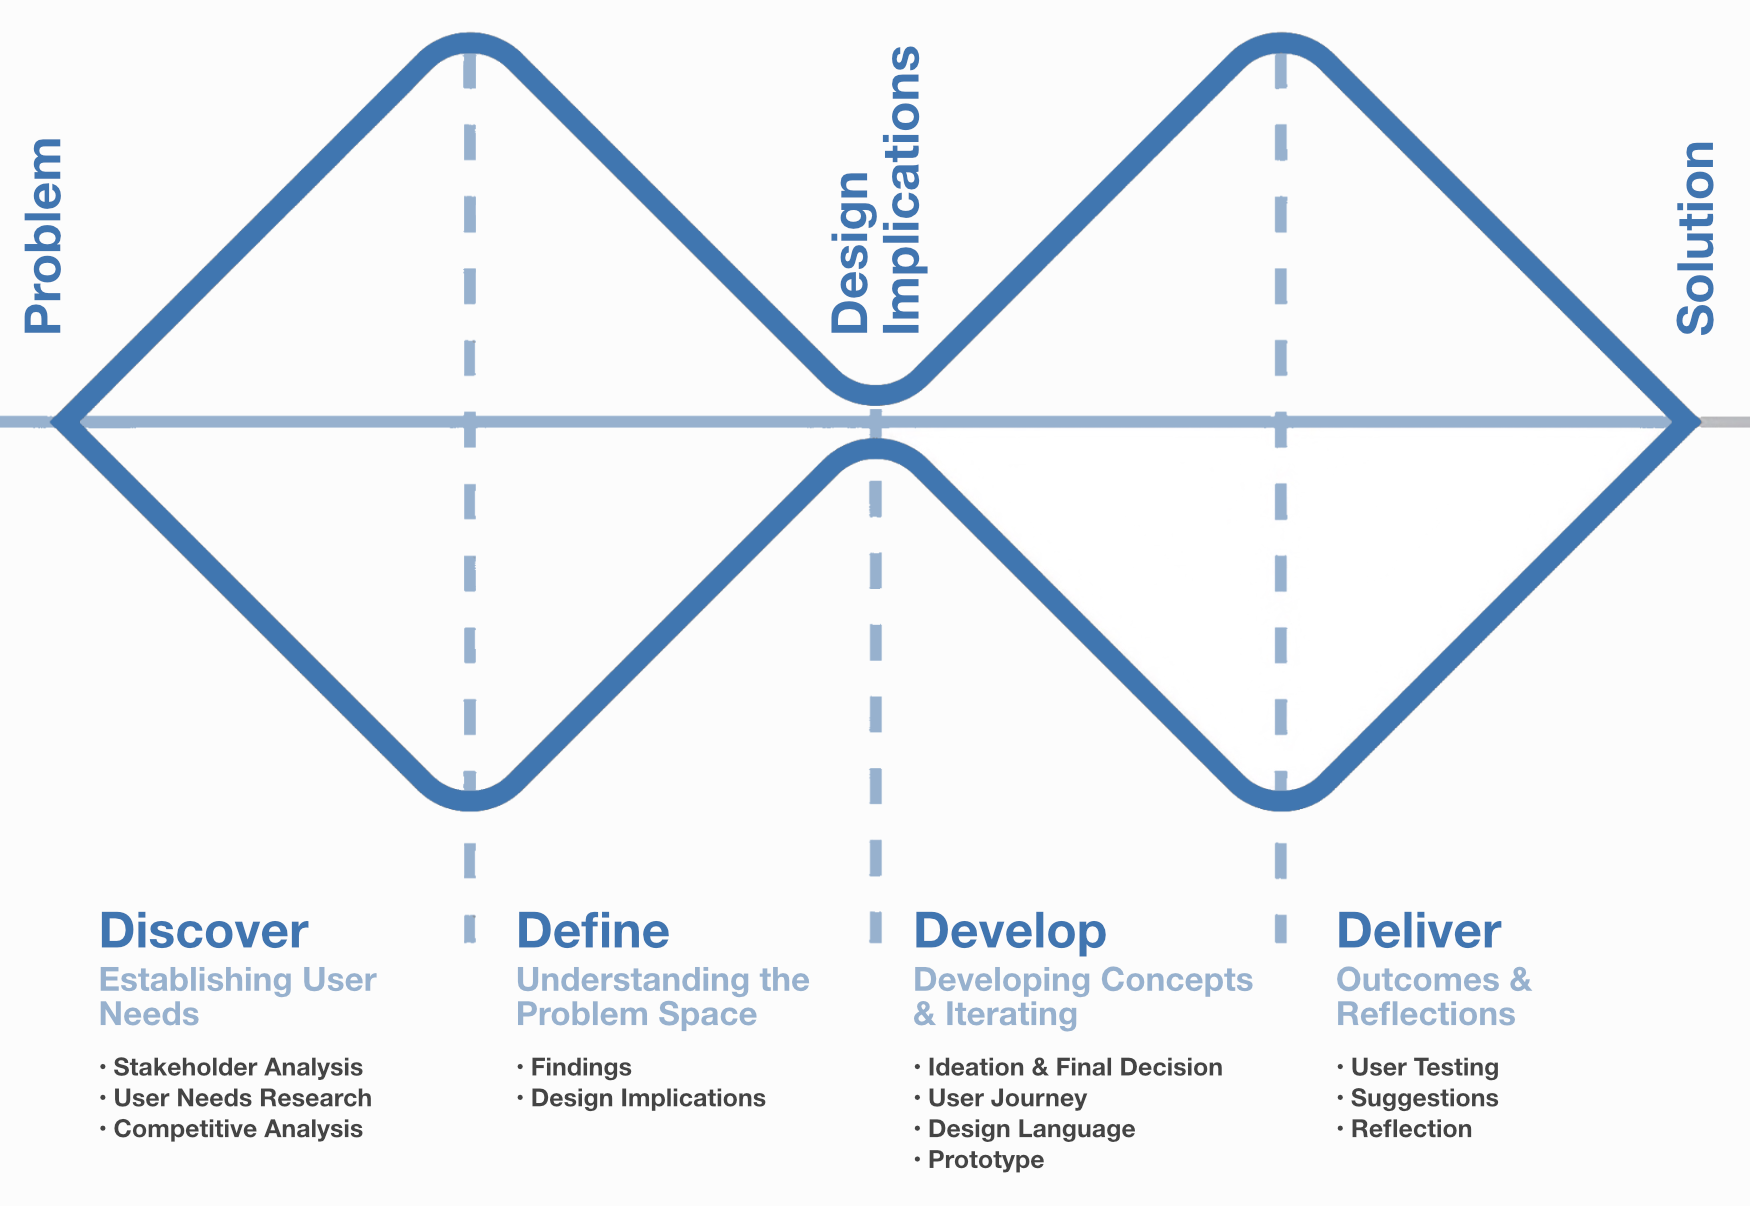
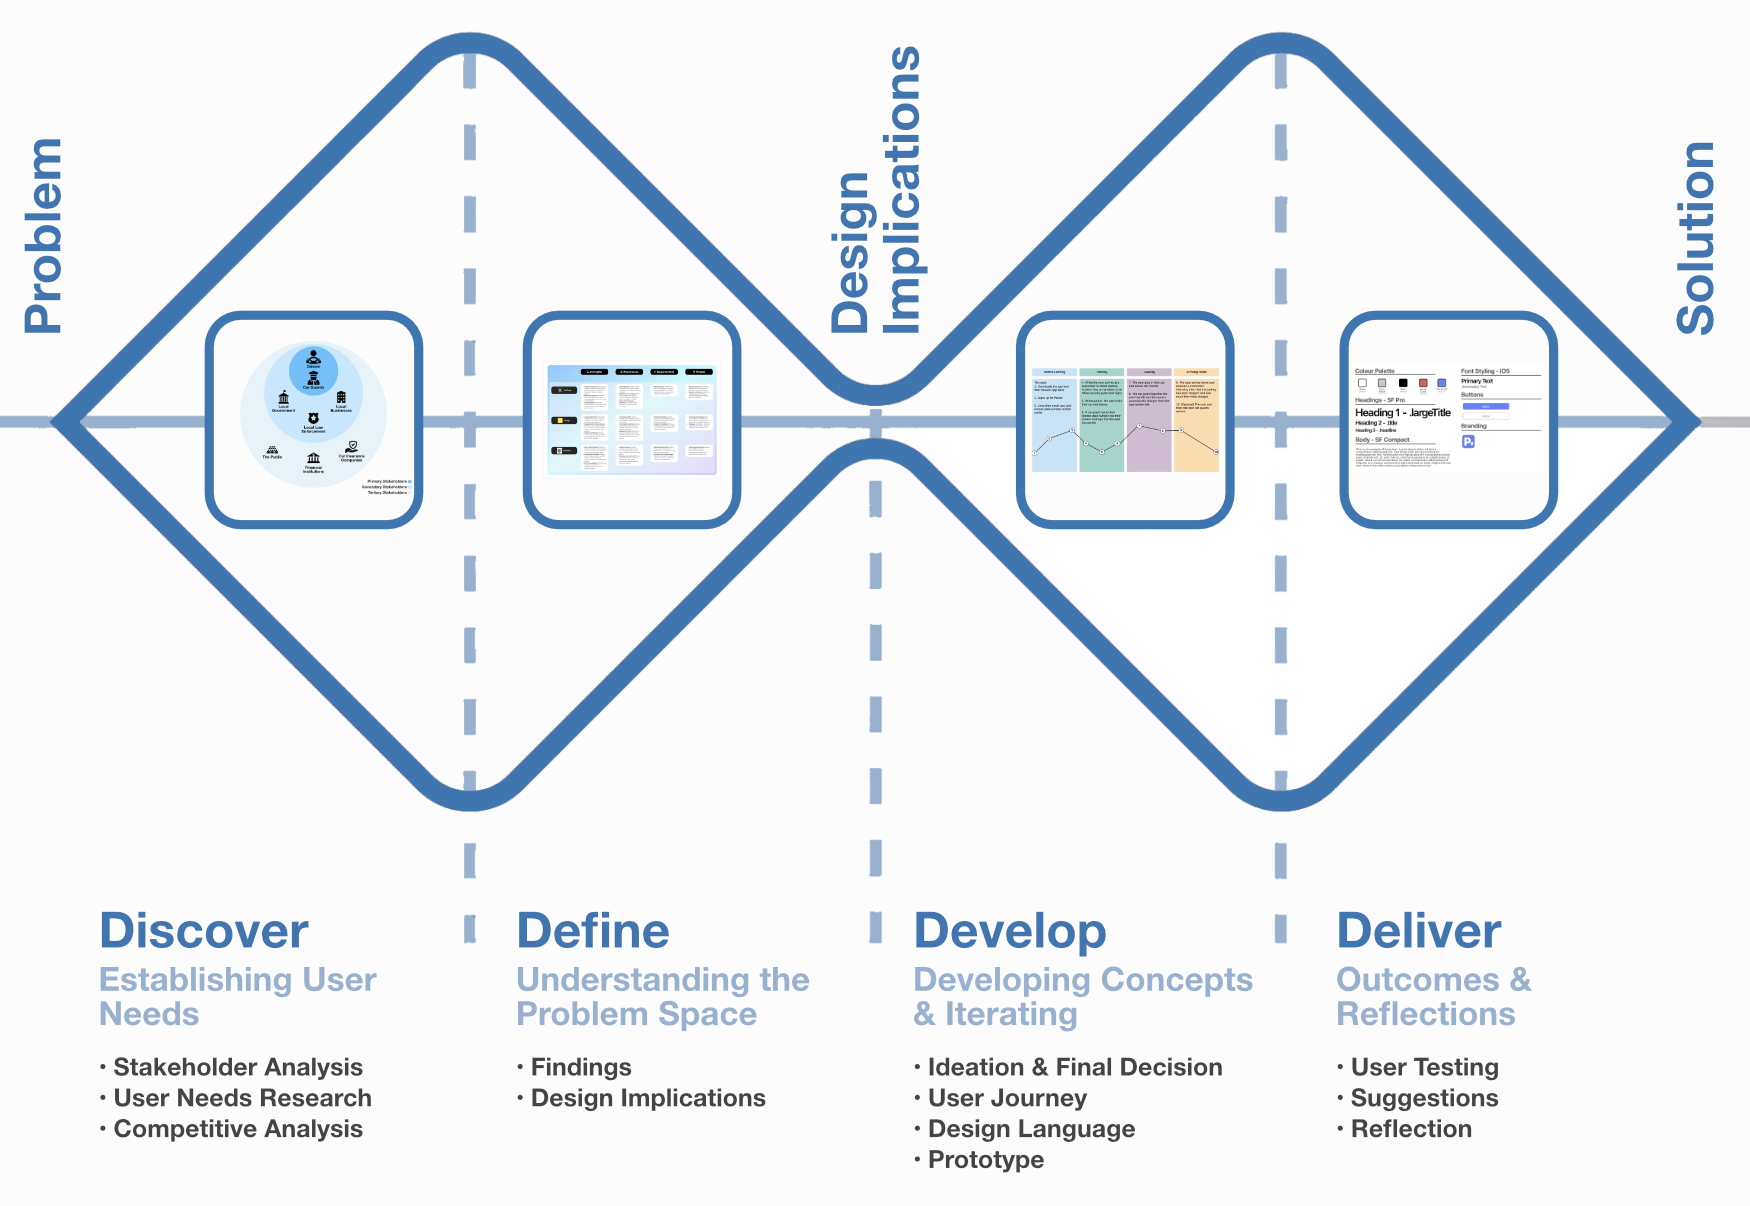
Fixed Responsive Design

diff --git a/src/pages/portfolioPages/Portfolio5.js b/src/pages/portfolioPages/Portfolio5.js
@@ -84,21 +84,12 @@ export default class Portfolio5 extends Component {
                 <h2 className="portfolio-page-heading-1">Overview</h2>
                 <h3 className="portfolio-page-heading-2">🔍 The Scenario</h3>
                 <p>
-                  As a driver in South Africa, there is one experience everyone
-                  is familair with. You go out and decide to take your car, only
-                  to discover there is only on-street parking available. When
-                  arriving there is nothing to worry about – you find an open
-                  parking spot, park, lock your car, and go on your way.
-                  However, upon arriving back at your car later, it quickly
-                  becomes a different story. You see, just as you’re about to
-                  leave, an informal ‘car guard’ appears out of nowhere –
-                  claiming to have been watching your car the entire time,
-                  soliciting for money in return. So, what do you do? You get in
-                  your car, pull out some spare change in your pocket, give it
-                  to the car guard, and go on your way so as not to cause any
-                  awkward encounters. What should have been a simple in and out
-                  process, becomes an almost stressful, and potentially awkward,
-                  game of cat and mouse.
+                  In South Africa, the experience of on-street parking can turn
+                  stressful quickly. Finding an open parking spot seems easy,
+                  but returning to your car often involves dealing with informal
+                  'car guards' soliciting money. What should have been a simple
+                  process turns into a potentially awkward encounter, disrupting
+                  the usual in-and-out routine.
                 </p>
                 <h3 className="portfolio-page-heading-2">⚠ The Problem</h3>
                 <p className="problem-text">
@@ -111,16 +102,13 @@ export default class Portfolio5 extends Component {
                   {/* </b> */}
                 </p>
                 <p>
-                  For the most part these self-proclaimed 'car guards' are
-                  unreliable, intoxicated, and often offer very little actual
-                  protection against car theft. In fact, their presence often
-                  times actually leads to a more unsafe situation – especially
-                  for female drivers travelling alone at night, where a creepy
-                  man appearing out of nowhere, confronting you, is not safe nor
-                  comforting. It raises the question of what happens if you
-                  don't have change to give them? Or are they really a car
-                  guard? It is a problem unique to South Africa, and as such one
-                  unexplored.
+                  Self-proclaimed 'car guards' in South Africa are generally
+                  unreliable, often intoxicated, and provide minimal protection
+                  against theft. Their presence can create unsafe situations,
+                  particularly for solo female drivers at night, raising
+                  concerns about confronting strangers and the reliability of
+                  these guards. It is a problem unique to South Africa, and as
+                  such one unexplored.
                 </p>
                 <h3 className="portfolio-page-heading-2">💡 The Solution</h3>
                 <p>
@@ -159,9 +147,8 @@ export default class Portfolio5 extends Component {
                 </p>
                 <PortfolioPageFigure
                   imageSource={Figure3Image}
-                  figureCaption={
-                    "Double diamond diagram showing design process"
-                  }
+                  figureCaption={""}
+                  title={"Double diamond diagram showing design process"}
                   singleCard={"single-card"}
                 />
                 <h3 className="portfolio-page-heading-2">🕵🏼♂ Discover</h3>
@@ -184,7 +171,8 @@ export default class Portfolio5 extends Component {
                 </p>
                 <PortfolioPageFigure
                   imageSource={Figure4Image}
-                  figureCaption={
+                  figureCaption={""}
+                  title={
                     "Stakeholder diagram showing the primary, secondary, and tertiary stakeholders"
                   }
                   singleCard={"single-card"}
@@ -275,7 +263,8 @@ export default class Portfolio5 extends Component {
                 </p>
                 <PortfolioPageFigure
                   imageSource={Figure5Image}
-                  figureCaption={
+                  figureCaption={""}
+                  title={
                     "A SWOT diagram of all the parking service competitors in South Africa"
                   }
                   singleCard={"single-card"}
@@ -291,9 +280,8 @@ export default class Portfolio5 extends Component {
                 <h4 className="portfolio-page-heading-3">Findings</h4>
                 <PortfolioPageFigureLong
                   imageSource={Figure6Image}
-                  figureCaption={
-                    "Double diamond diagram showing design process"
-                  }
+                  figureCaption={""}
+                  title={""}
                   singleCard={"single-card"}
                 />
                 <p className="sub-head-p">
@@ -369,8 +357,9 @@ export default class Portfolio5 extends Component {
 
                 <PortfolioPageFigure
                   imageSource={Figure7Image}
-                  figureCaption={
-                    "Stakeholder diagram showing the primary, secondary, and tertiary stakeholders"
+                  figureCaption={""}
+                  title={
+                    "User journey map showing process of driver when parking"
                   }
                   singleCard={"single-card"}
                 />
@@ -385,9 +374,8 @@ export default class Portfolio5 extends Component {
 
                 <PortfolioPageFigure
                   imageSource={Figure8Image}
-                  figureCaption={
-                    "Stakeholder diagram showing the primary, secondary, and tertiary stakeholders"
-                  }
+                  figureCaption={""}
+                  title={"Styleguide for Parker"}
                   singleCard={"single-card"}
                 />
 
@@ -415,16 +403,14 @@ export default class Portfolio5 extends Component {
                 <section className="portfolio-double-figures">
                   <iframe
                     // style="border: 1px solid rgba(0, 0, 0, 0.1);"
-                    width={"100%"}
-                    height={"500px"}
+
                     src="https://www.figma.com/embed?embed_host=share&url=https%3A%2F%2Fwww.figma.com%2Ffile%2FltOD8UKv7IThncGx7LzEBH%2FParker-(Client)-Wireframes%3Ftype%3Ddesign%26node-id%3D118%253A10404%26mode%3Ddesign%26t%3D5rcobC87ZrjCVNMU-1"
                     allowfullscreen
                     className="portfolio-figma double"
                   />
                   <iframe
                     // style="border: 1px solid rgba(0, 0, 0, 0.1);"
-                    width={"100%"}
-                    height={"500px"}
+
                     src="https://www.figma.com/embed?embed_host=share&url=https%3A%2F%2Fwww.figma.com%2Ffile%2FltOD8UKv7IThncGx7LzEBH%2FParker-(Client)-Wireframes%3Ftype%3Ddesign%26node-id%3D345%253A11956%26mode%3Ddesign%26t%3D5rcobC87ZrjCVNMU-1"
                     allowfullscreen
                     className="portfolio-figma double"

diff --git a/src/styles/portfolioPages.css b/src/styles/portfolioPages.css
@@ -237,6 +237,9 @@
   border-radius: 1rem;
 
   box-shadow: rgba(9, 81, 126, 0.098) 0.1rem 0.1rem 01rem 0.1rem;
+
+  width: 100%;
+  height: 500px;
 }
 
 .portfolio-figma.double {
@@ -321,7 +324,11 @@
     margin-bottom: 1.5rem;
     font-size: 1rem;
     color: hsl(0, 0%, 2%);
-    line-height: 1.8rem;
+    /* line-height: 1.8rem; */
+  }
+
+  .portfolio-page-contents p.sub-head-p {
+    margin: 1.5rem 0rem 1.5rem 0rem;
   }
 
   .portfolio-pages {
@@ -393,5 +400,18 @@
   .disclaimer-text p {
     font-size: 0.9rem;
     color: #444444;
+  }
+
+  .video {
+    width: 100%;
+    height: 250px;
+  }
+
+  .portfolio-bullet-cont {
+    margin: 1rem 0rem;
+  }
+
+  .portfolio-figma.double {
+    margin: 1rem 0rem;
   }
 }

diff --git a/src/pages/PortfolioPage.js b/src/pages/PortfolioPage.js
@@ -29,7 +29,7 @@ export default class PortfolioPage extends Component {
         <FadeIn transitionDuration={750}>
           <article className="portfolio-page">
             <header className="portfolio-page-header">
-              <h1 className="page-title">Projects</h1>
+              <h1 className="page-title">Portfolio</h1>
             </header>
             <section className="card-grid">
               {PortfolioList.slice(0, PortfolioList.length).map(
